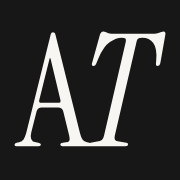
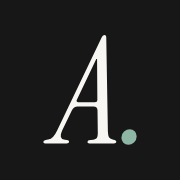
Light work sections, italic wordmark, blended portrait, Experience page
- Wordmark: italic Instrument Serif name with an accent full stop
  (replaces the AT square); favicon and touch icon now "A."
- Work page showcase and home featured work on the light background;
  colours follow the light tokens
- Hero portrait: rounded and faded into the page with a radial mask
- Skills moved to the home page; About keeps profile, education and
  certifications
- New Experience page (/experience) with nav and footer links; home
  experience snapshot links to it

Claude-Session: https://claude.ai/code/session_01Ma4EnYNY87YJopwBxxwV3F

Changed region(s): [[0.0833, 0.1667, 0.9444, 0.8333]]

diff --git a/src/components/Hero.jsx b/src/components/Hero.jsx
@@ -88,7 +88,9 @@ function Hero() {
             className="motion-rise col-span-2 md:col-span-3 lg:col-span-3 lg:col-start-10"
             style={{ "--delay": "200ms" }}
           >
-            <picture>
+            {/* Rounded corners plus a soft radial mask so the photo fades
+                into the page instead of ending on a hard edge. */}
+            <picture className="block [mask-image:radial-gradient(closest-side_at_50%_46%,#000_50%,transparent_100%)]">
               <source srcSet={photo.webp} type="image/webp" />
               <img
                 src={photo.src}
@@ -96,10 +98,10 @@ function Hero() {
                 width={photo.width}
                 height={photo.height}
                 decoding="async"
-                className="aspect-[4/5] w-full bg-muted object-cover object-[50%_15%]"
+                className="aspect-[4/5] w-full rounded-[2rem] object-cover object-[50%_18%]"
               />
             </picture>
-            <figcaption className="mt-3 flex justify-between gap-4">
+            <figcaption className="mt-1 flex justify-between gap-4 px-2">
               <MonoLabel>{profile.location.split(",")[0]}</MonoLabel>
               <LocalTime />
             </figcaption>

diff --git a/src/components/Wordmark.jsx b/src/components/Wordmark.jsx
@@ -1,20 +1,25 @@
 import Link from "@/components/ui/Link";
-import Monogram from "@/components/Monogram";
 import { profile } from "@/data/profile";
 import { cn } from "@/lib/utils";
 
-/** AT monogram + name. Links to the home page. */
+/** Italic serif name with an accent full stop. Links to the home page. */
 function Wordmark({ className, onClick }) {
   return (
     <Link
       href="/"
       onClick={onClick}
       aria-label={`${profile.name}, home`}
-      className={cn("group inline-flex items-center gap-3", className)}
+      className={cn(
+        "group inline-flex items-baseline font-serif text-[1.625rem] leading-none tracking-[-0.01em] italic",
+        className
+      )}
     >
-      <Monogram className="size-9 transition-colors duration-200 group-hover:text-accent" />
-      <span className="font-serif text-[1.375rem] leading-none tracking-[-0.01em]">
-        {profile.name}
+      {profile.name}
+      <span
+        aria-hidden="true"
+        className="text-accent transition-transform duration-300 ease-out-expo group-hover:translate-x-0.5"
+      >
+        .
       </span>
     </Link>
   );

diff --git a/src/components/Experience.jsx b/src/components/Experience.jsx
@@ -40,12 +40,20 @@ function Highlights({ items }) {
   );
 }
 
-function Experience() {
+function Experience({ asPage = false }) {
+  // On its own page the h1 is the page title, so companies move up a level.
+  const Company = asPage ? "h2" : "h3";
+
   return (
-    <Section id="experience" labelledBy="experience-title">
+    <Section
+      id="experience"
+      labelledBy="experience-title"
+      className={asPage ? "pt-12 pb-[var(--section-space)] md:pt-16" : undefined}
+    >
       <Container>
         <SectionHeader
-          index="01"
+          as={asPage ? "h1" : "h2"}
+          index={asPage ? undefined : "01"}
           label="Experience"
           id="experience-title"
           title={
@@ -77,7 +85,7 @@ function Experience() {
                 </div>
 
                 <div className="col-span-4 md:col-span-6 lg:col-span-9">
-                  <h3 className="font-serif text-h3">{exp.company}</h3>
+                  <Company className="font-serif text-h3">{exp.company}</Company>
                   <p className="mt-2 font-medium">{exp.role}</p>
 
                   <ul

diff --git a/src/App.jsx b/src/App.jsx
@@ -3,6 +3,7 @@ import Navbar from "./components/Navbar";
 import Footer from "./components/Footer";
 import Home from "./pages/Home";
 import About from "./pages/About";
+import Experience from "./pages/Experience";
 import Work from "./pages/Work";
 import Contact from "./pages/Contact";
 import NotFound from "./pages/NotFound";
@@ -14,6 +15,7 @@ const SITE = "Ayush Thakali";
 const routes = {
   "/": { page: Home, title: `${SITE} | Full Stack Developer` },
   "/about": { page: About, title: `About | ${SITE}` },
+  "/experience": { page: Experience, title: `Experience | ${SITE}` },
   "/work": { page: Work, title: `Work | ${SITE}` },
   "/contact": { page: Contact, title: `Contact | ${SITE}` },
 };

diff --git a/src/components/ExperienceSnapshot.jsx b/src/components/ExperienceSnapshot.jsx
@@ -12,7 +12,7 @@ function ExperienceSnapshot() {
     <Section labelledBy="snapshot-title">
       <Container>
         <SectionHeader
-          index="02"
+          index="03"
           label="Experience"
           id="snapshot-title"
           title={
@@ -22,12 +22,12 @@ function ExperienceSnapshot() {
           }
           action={
             <TextLink
-              href="/about"
+              href="/experience"
               icon={ArrowRight}
               iconNudge="group-hover:translate-x-0.5"
               className="min-h-11 text-sm font-medium"
             >
-              More about me
+              Full experience
             </TextLink>
           }
         />

diff --git a/src/components/Skills.jsx b/src/components/Skills.jsx
@@ -4,12 +4,12 @@ import SectionHeader from "@/components/ui/SectionHeader";
 import MonoLabel from "@/components/ui/MonoLabel";
 import { skillGroups } from "@/data/skills";
 
-function Skills() {
+function Skills({ index = "02", tone = "default" }) {
   return (
-    <Section id="skills" labelledBy="skills-title">
+    <Section id="skills" tone={tone} labelledBy="skills-title">
       <Container>
         <SectionHeader
-          index="02"
+          index={index}
           label="Skills"
           id="skills-title"
           title={

diff --git a/src/components/Portfolio.jsx b/src/components/Portfolio.jsx
@@ -132,11 +132,7 @@ function Portfolio() {
   const number = (index) => String(index + 1).padStart(2, "0");
 
   return (
-    <Section
-      tone="dark"
-      aria-label="Projects"
-      className="pt-[calc(var(--section-space)*0.6)] pb-[var(--section-space)]"
-    >
+    <Section aria-label="Projects" className="pt-4 pb-[var(--section-space)] md:pt-8">
       <Container>
         <div className="space-y-16 md:space-y-24">
           {featured.map((project, i) => (

diff --git a/src/pages/Home.jsx b/src/pages/Home.jsx
@@ -1,5 +1,6 @@
 import Hero from "@/components/Hero";
 import FeaturedWork from "@/components/FeaturedWork";
+import Skills from "@/components/Skills";
 import ExperienceSnapshot from "@/components/ExperienceSnapshot";
 import ContactCta from "@/components/ContactCta";
 
@@ -8,6 +9,7 @@ function Home() {
     <>
       <Hero />
       <FeaturedWork />
+      <Skills index="02" tone="muted" />
       <ExperienceSnapshot />
       <ContactCta />
     </>

diff --git a/src/pages/About.jsx b/src/pages/About.jsx
@@ -1,14 +1,10 @@
 import AboutIntro from "@/components/About";
-import Experience from "@/components/Experience";
-import Skills from "@/components/Skills";
 import Background from "@/components/Background";
 
 function About() {
   return (
     <>
       <AboutIntro />
-      <Experience />
-      <Skills />
       <Background />
     </>
   );

diff --git a/src/components/Background.jsx b/src/components/Background.jsx
@@ -25,7 +25,7 @@ function Background() {
     <Section id="education" labelledBy="background-title" className="pb-[var(--section-space)]">
       <Container>
         <SectionHeader
-          index="03"
+          index="01"
           label="Background"
           id="background-title"
           title={

diff --git a/src/components/Footer.jsx b/src/components/Footer.jsx
@@ -8,6 +8,7 @@ import { profile } from "@/data/profile";
 const pages = [
   { label: "Home", href: "/" },
   { label: "About", href: "/about" },
+  { label: "Experience", href: "/experience" },
   { label: "Work", href: "/work" },
   { label: "Contact", href: "/contact" },
 ];

diff --git a/src/components/Navbar.jsx b/src/components/Navbar.jsx
@@ -13,6 +13,7 @@ import { cn } from "@/lib/utils";
 const pages = [
   { href: "/", label: "Home" },
   { href: "/about", label: "About" },
+  { href: "/experience", label: "Experience" },
   { href: "/work", label: "Work" },
   { href: "/contact", label: "Contact" },
 ];
